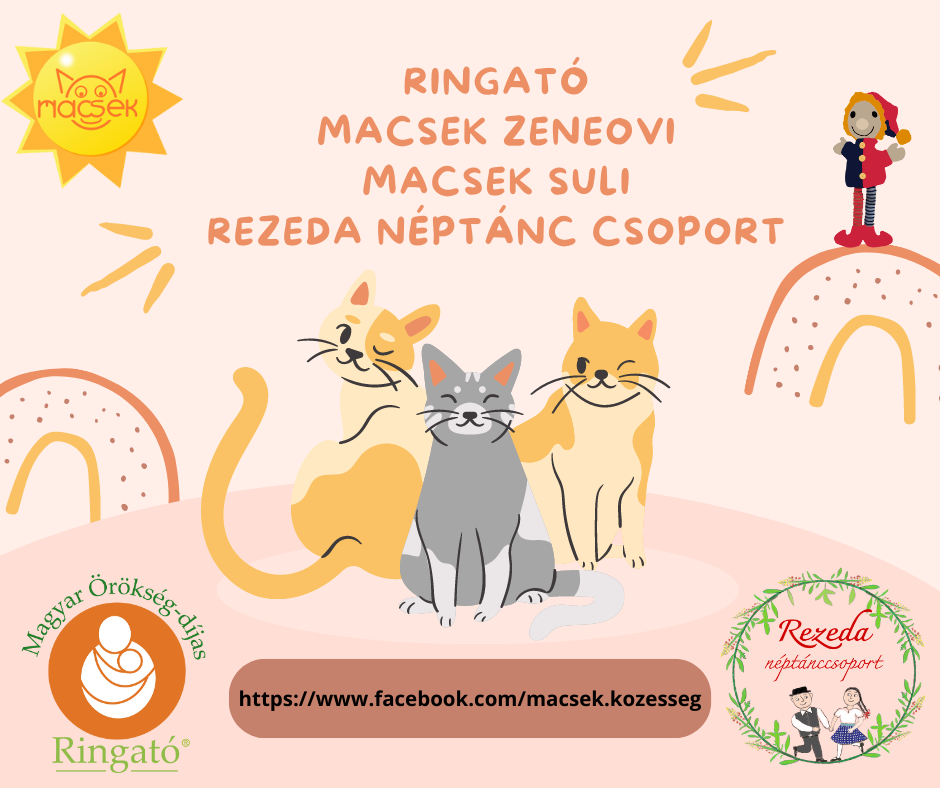
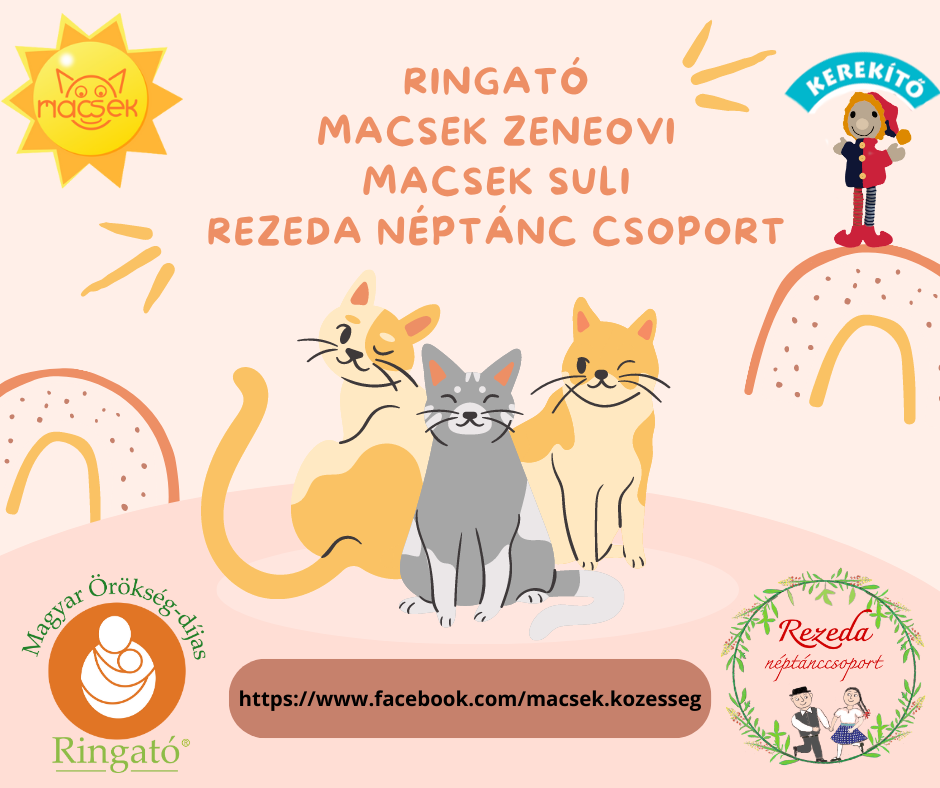
Add Kerekítő text in news image
- It fixes H1 headers for mobile phones

Changed region(s): [[0.833, 0.0609, 1.0, 0.1523]]

diff --git a/src/styles/global.css b/src/styles/global.css
@@ -68,8 +68,8 @@
 	
 	.commonClass {
 		font-size: calc(14px + 0.4vw);
-		padding-left:10vw;
-		padding-right:10vw;
+		padding-left:5vw;
+		padding-right:5vw;
 		text-align: justify;
 	}
 	
@@ -110,6 +110,7 @@ img.test {
 
 h1 {
 	font-family: Calibri, "Helvetica", san-serif;
+	text-align: left;
 	line-height: 1.5em;
 	color: green;
 	font-size: 40px;